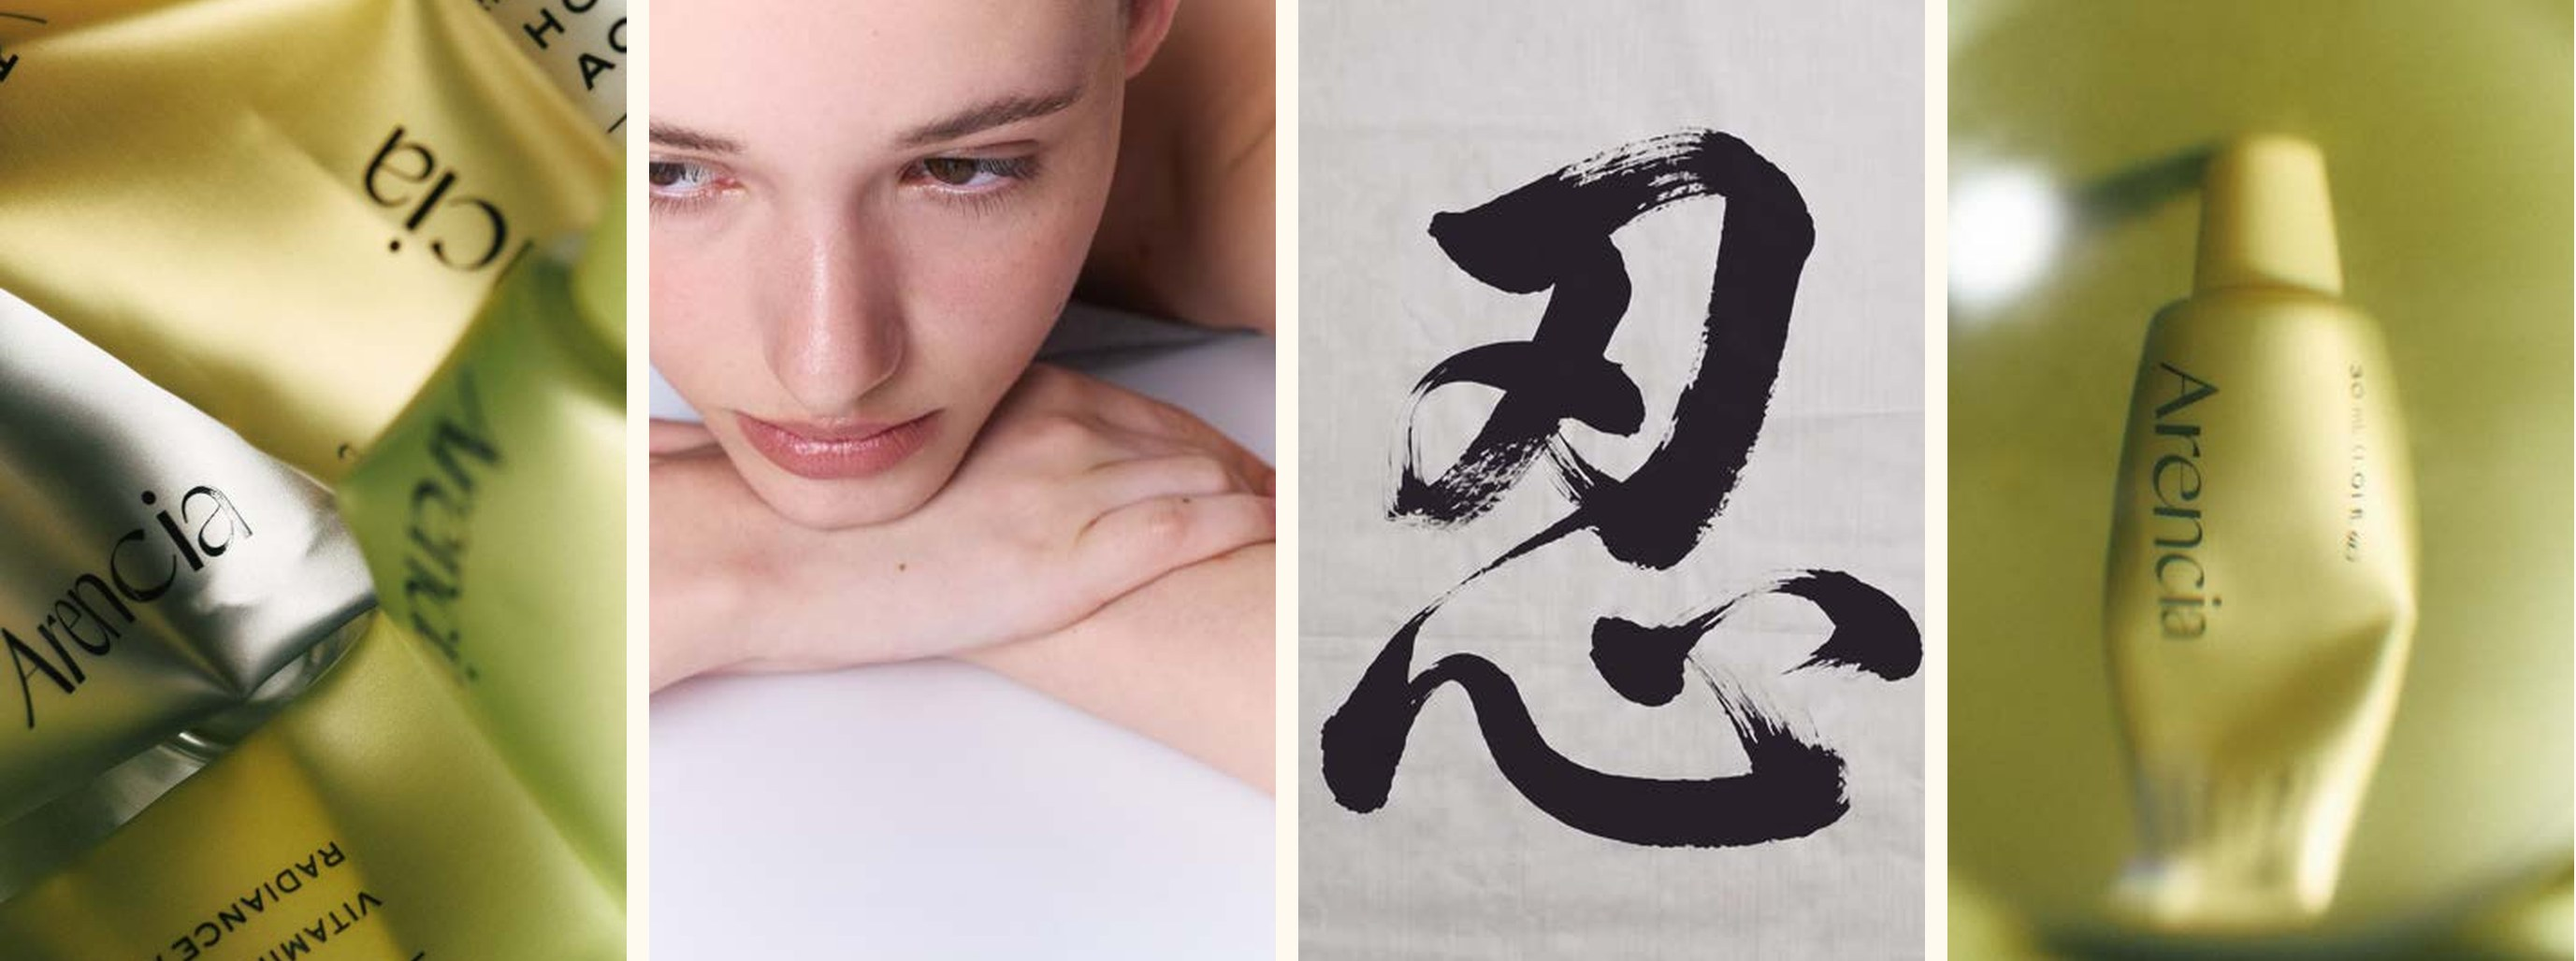
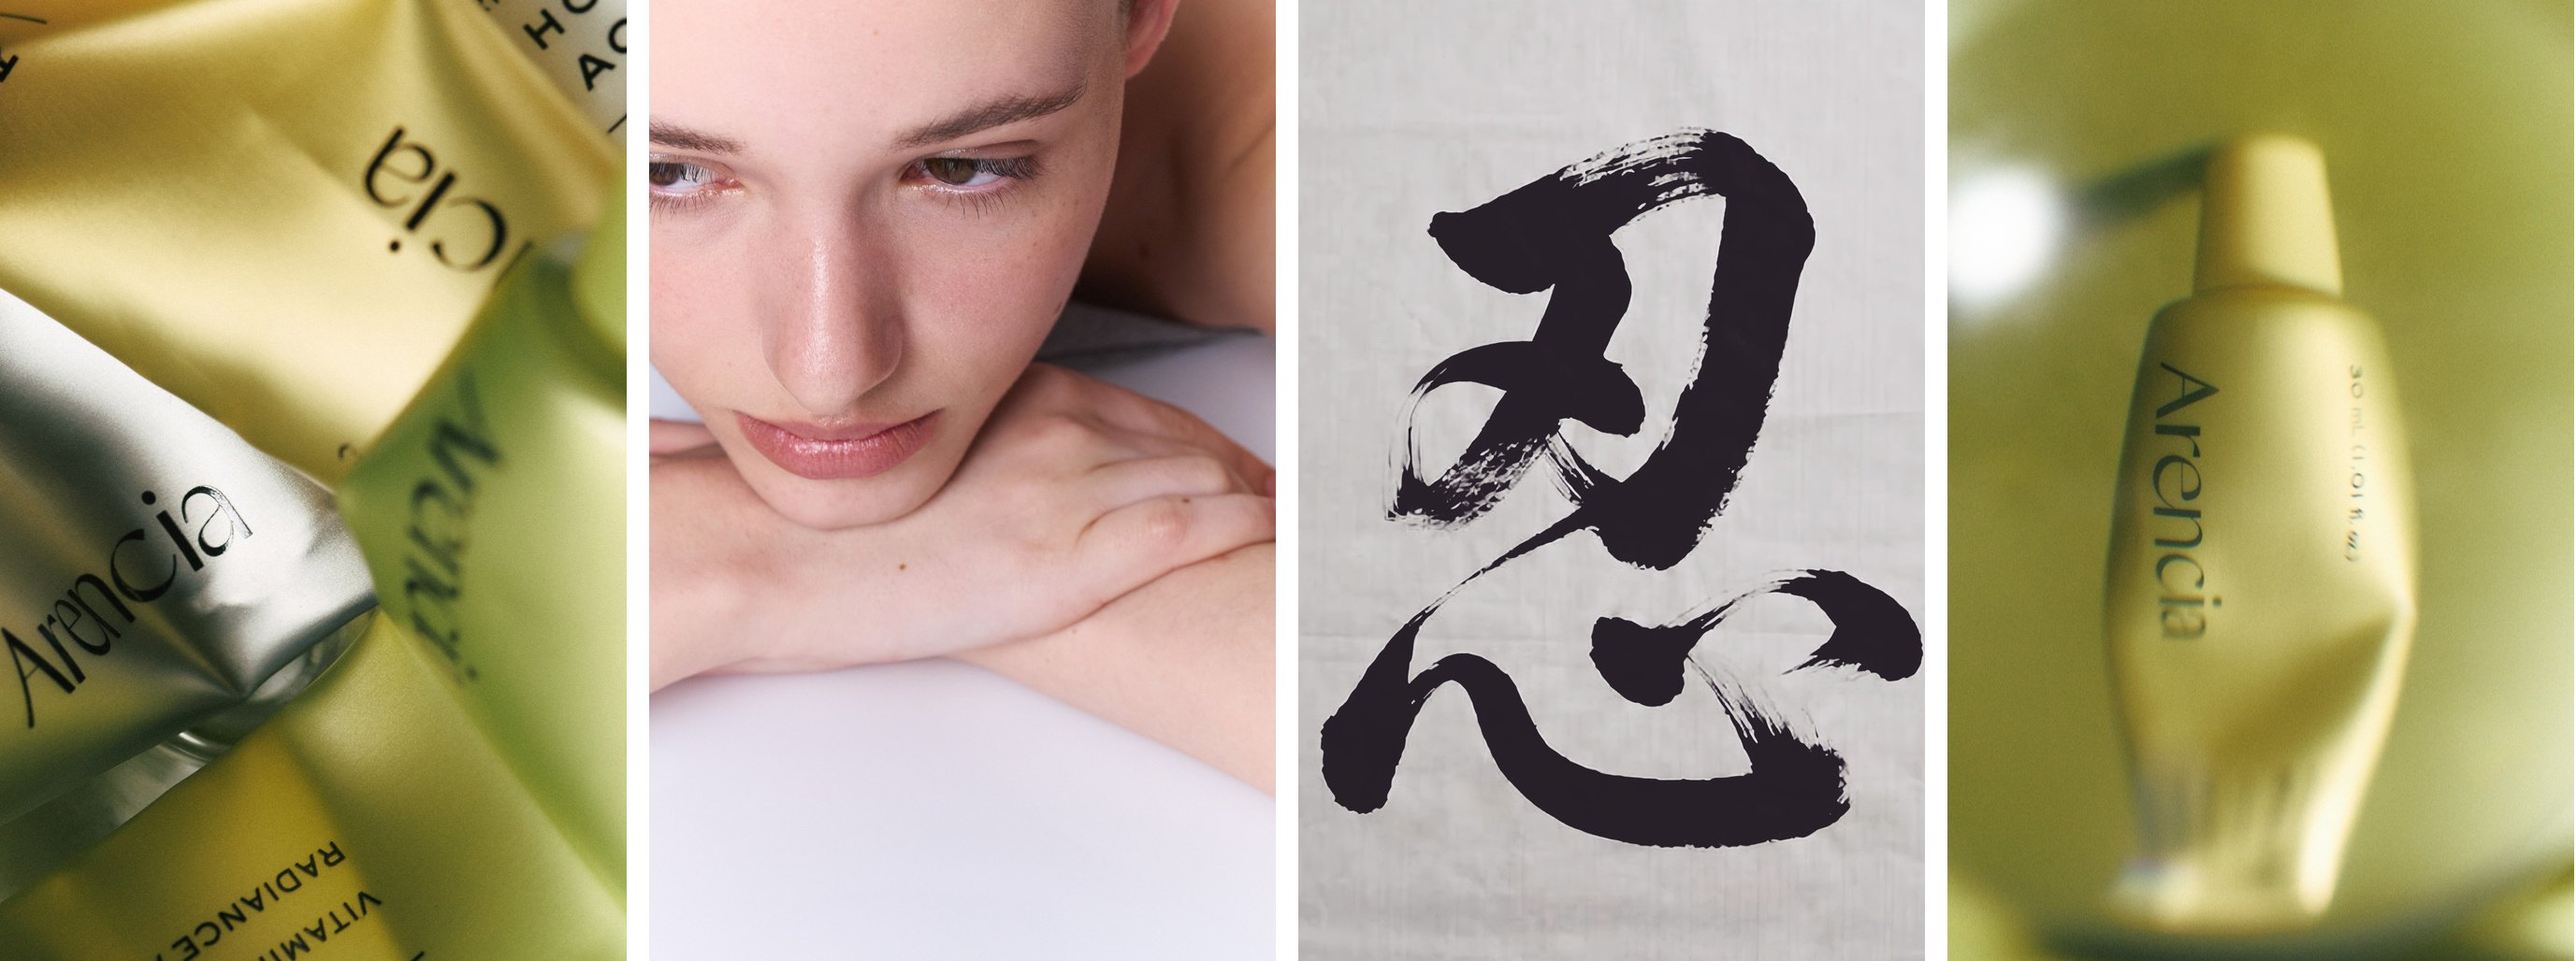
Arencia: original campaign photos for hero, cover and grid
Claude-Session: https://claude.ai/code/session_015vF3fknx26ijuPFq6BGXjN

Changed region(s): [[0.5933, 0.1556, 0.6558, 0.2179], [0.5621, 0.4669, 0.6245, 0.5292], [0.6558, 0.716, 0.687, 0.7471]]

diff --git a/arencia-site/index.html b/arencia-site/index.html
@@ -8,7 +8,7 @@
   <link rel="preconnect" href="https://fonts.googleapis.com">
   <link rel="preconnect" href="https://fonts.gstatic.com" crossorigin>
   <link href="https://fonts.googleapis.com/css2?family=Hedvig+Letters+Serif:opsz@12..24&family=Inter:wght@400;500&display=swap" rel="stylesheet">
-  <link rel="stylesheet" href="styles.css?v=3">
+  <link rel="stylesheet" href="styles.css?v=4">
   <script>
     // Scale the 1920px design to the window width, same as the other case studies.
     (function () {
@@ -46,7 +46,7 @@
       </div>
     </section>
 
-    <img class="hero" src="images/hero.jpg?v=1" width="1377" height="514"
+    <img class="hero" src="images/hero.jpg?v=2" width="1377" height="514"
       alt="Four posts from the new Arencia grid: a silver tube on green, a model resting on her arms, brush calligraphy and a gold bottle under a magnifying glass">
 
     <div class="layout">
@@ -160,8 +160,8 @@
               <p class="body">Every shoot followed the direction below, from backgrounds and props to framing and lighting. See the posts on <a class="link" href="https://www.instagram.com/arencia_global/" target="_blank" rel="noopener">@arencia_global</a>.</p>
             </div>
             <div class="grid-panel">
-              <img class="grid-panel__grid" src="images/grid.jpg?v=1" width="948" height="1550" loading="lazy"
-                alt="The 12-post grid: a gold bottle under glass, a model holding a tube to her cheek, two tubes on green, calligraphy, a mood board, a model resting, a silver tube, a pouch of tools, greens on a silver tray, a crumpled tube and cream jars">
+              <img class="grid-panel__grid" src="images/grid.jpg?v=2" width="1816" height="3024" loading="lazy"
+                alt="The 12-post grid: the logo through a glass sphere, a model applying a Booster Shot, two tubes on green, brush calligraphy, a gold tube under glass, a workspace mood board, a model resting on her arms, greens on a silver tray, a pouch of tools, a silver tube on green, crumpled tubes and cleanser jars">
             </div>
             <div class="cards cards--3">
               <article class="card">

diff --git a/arencia-site/styles.css b/arencia-site/styles.css
@@ -538,7 +538,7 @@ a { color: inherit; text-decoration: none; }
 .caption { color: var(--black-60); font-size: 15px; line-height: 1.4; }
 .grid-panel { display: grid; justify-items: center; padding: 64px; border-radius: 16px; background: #fffaf0; }
 .grid-panel img { width: 100%; height: auto; }
-.grid-panel .grid-panel__grid { width: 46%; }
+.grid-panel .grid-panel__grid { width: 50%; border-radius: 12px; }
 .list { margin: 0; padding: 0; list-style: none; display: flex; flex-direction: column; gap: 6px; }
 .list li { font-size: 16px; line-height: 1.45; color: var(--black-60); }
 .card .label + .list { margin-top: -4px; }

diff --git a/index.html b/index.html
@@ -60,7 +60,7 @@
 
       <a class="project" href="arencia-site/index.html">
         <div class="project__media project__media--arencia">
-          <img src="arencia-site/images/cover.jpg?v=1" width="1377" height="946"
+          <img src="arencia-site/images/cover.jpg?v=2" width="1377" height="946"
             alt="Six posts from Arencia’s rebranded Instagram grid in olive green, gold and soft white">
         </div>
         <h2 class="project__title">Arencia</h2>
